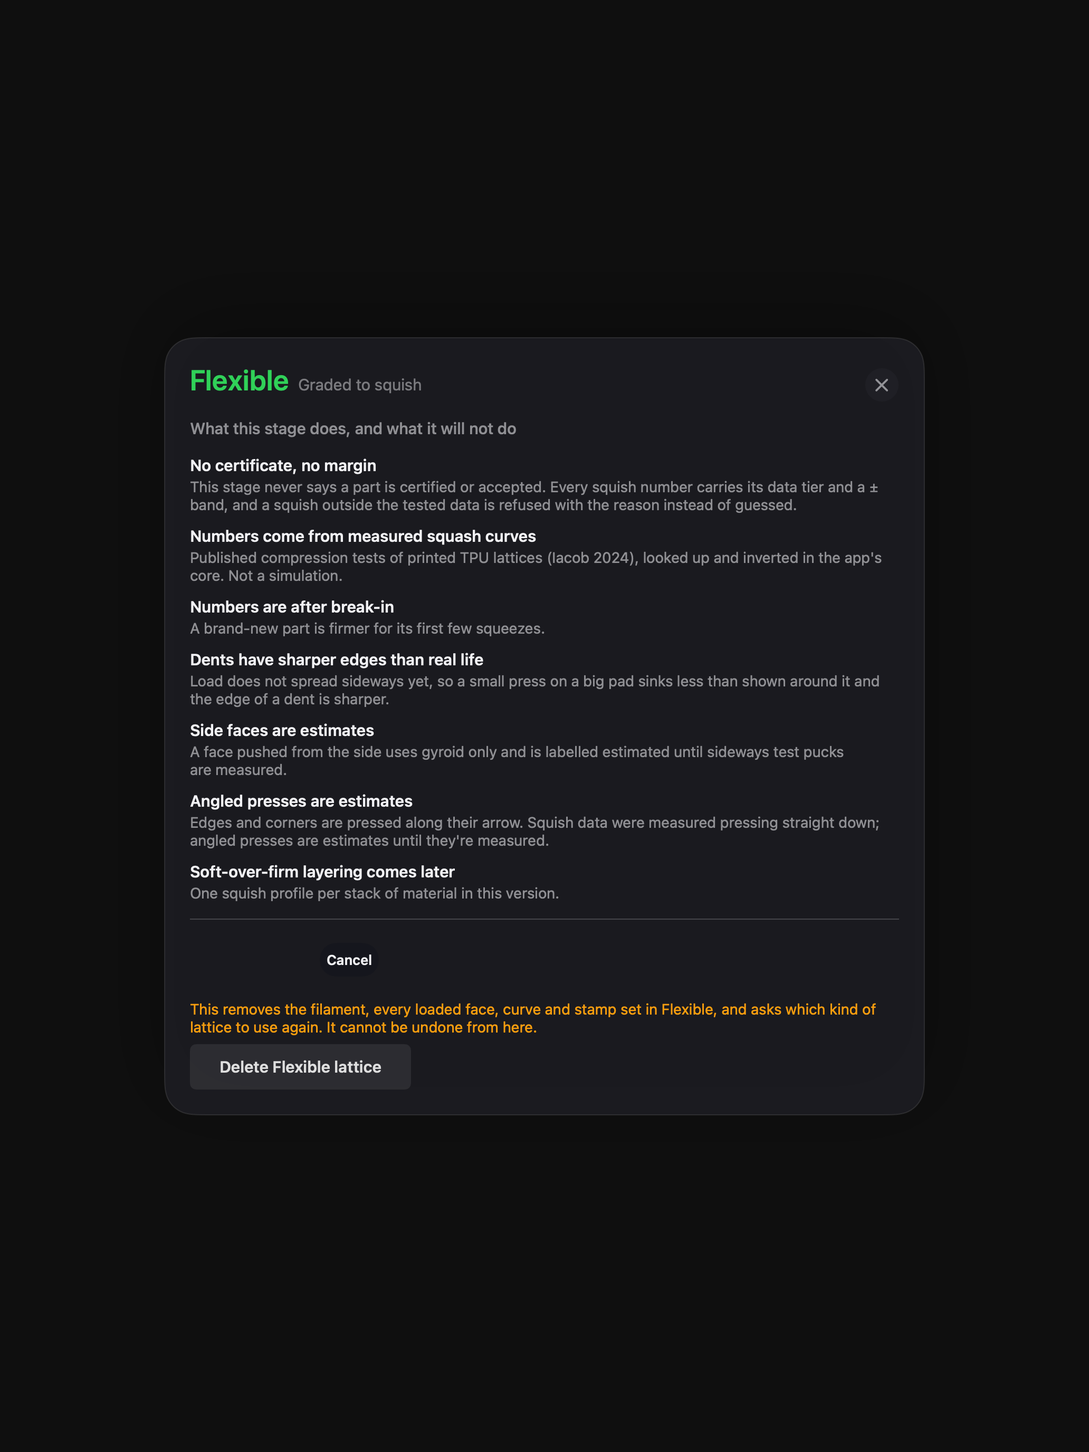
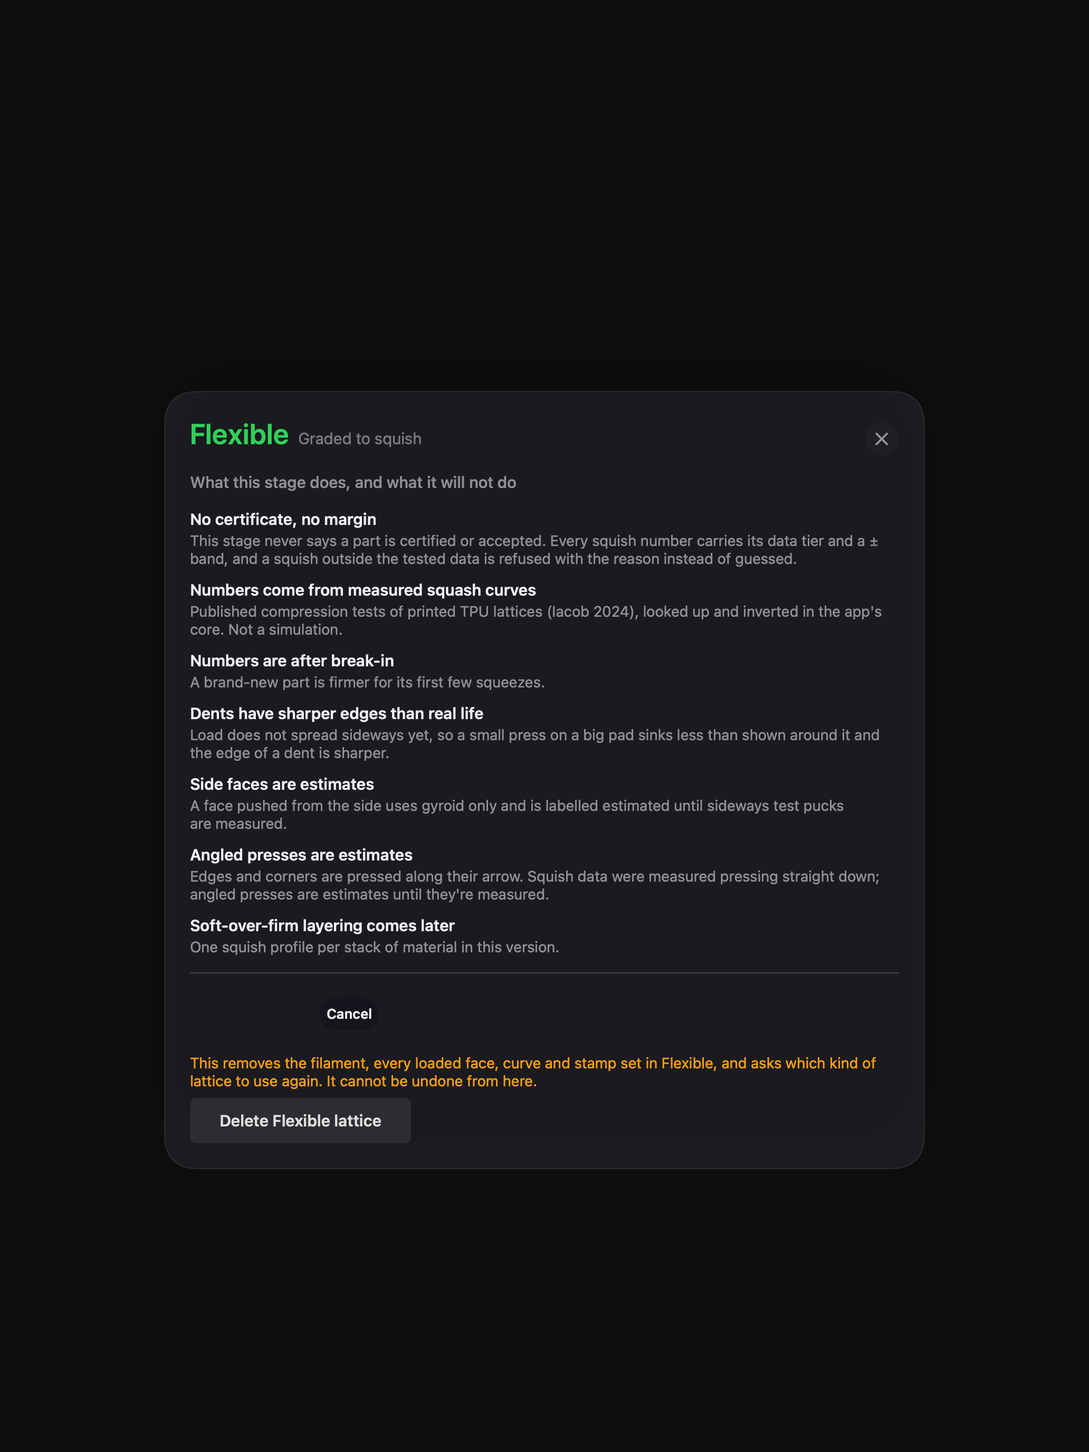
Round 7 · U21 batch D, fix round 2: [Keep] covers the whole button he tapped; the red [Remove] starts at least 24 pt past that button's own edge (his note of 2026-10-21, Img13: "is the "cancel" button where the delete button was and the OK button somewhere else so it requires a move to confirm?").
The check found that the 24 pt gap was measured from a 64 pt [Keep], not from the tapped button. On the 128-143 pt fix buttons the red [Remove] therefore sat 9-16 pt over the button's ends: pop-up [Remove Face 5] 54-194 with the red from 180; card [Remove Edge 12] 40-183 with the red from 167; warning row 40-168 with the red from 159; callout 162-296 with the red to 173. A second tap there deleted with no move.

FlexibleConfirmInPlace now measures the tapped control's width, and [Keep] (its capsule too) is at least that wide. On his pad, 13" portrait: pop-up red 218-293, card 206-282, warning row 191-267, callout 63-138. The icon controls are unchanged, because Keep was already wider than them.

The "Delete Flexible lattice" sheet: the glass shown before the ask is now centred on the page. Before, it sat 50 pt above centre (319-955 in 1376); now it is 370-1006. The sheet stays in place while it asks, so [Cancel] still lands on the button.
[…]

diff --git a/app/TopOptKit/Tests/TopOptFlowsTests/FlexibleU2Tests.swift b/app/TopOptKit/Tests/TopOptFlowsTests/FlexibleU2Tests.swift
@@ -254,7 +254,12 @@ final class FlexibleU2Tests: XCTestCase {
     struct Asked { let control: CGRect; let keep: CGRect?; let confirm: CGRect?
         var keepOnSpot: Bool { keep.map { abs($0.midX - control.midX) <= 1 && abs($0.midY - control.midY) <= 1 } ?? false }
         var clear: Bool { if let k = keep, let c = confirm { return c.maxX <= k.minX - FlexibleConfirmLayout.gap + 0.5 }; return false }
-        var line: String { "control \(control.integral) · keep \(keep.map { "\($0.integral)" } ?? "-") · red \(confirm.map { "\($0.integral)" } ?? "-") · on spot \(keepOnSpot) · ≥24 pt clear \(clear)" }
+        /// ★ U21 fix round 2 (the check): the red button ≥ 24 pt clear of the control he TAPPED (its own frame, not Keep's).
+        var clearOfControl: Bool {
+            guard let c = confirm else { return false }
+            return c.maxX <= control.minX - FlexibleConfirmLayout.gap + 0.5 || c.minX >= control.maxX + FlexibleConfirmLayout.gap - 0.5
+        }
+        var line: String { "control \(control.integral) · keep \(keep.map { "\($0.integral)" } ?? "-") · red \(confirm.map { "\($0.integral)" } ?? "-") · on spot \(keepOnSpot) · ≥24 pt clear \(clear) · ≥24 pt clear of the tapped control \(clearOfControl)" }
     }
 
     /// Click `controlKey`, measure the ask, then click the SAME spot again (a double tap): it only cancels.
@@ -306,6 +311,7 @@ final class FlexibleU2Tests: XCTestCase {
         for (name, a) in [("face ⊖", face), ("group trash", group), ("Reset all", reset), ("edge trash", press)] {
             XCTAssertTrue(a.keepOnSpot, "★ \(name): [Keep] centred on the tapped control ±1 pt (\(a.line))")
             XCTAssertTrue(a.clear, "★ \(name): the red button ≥ 24 pt left of [Keep] (\(a.line))")
+            XCTAssertTrue(a.clearOfControl, "★ \(name): the red button ≥ 24 pt clear of the tapped control (\(a.line))")
             if let k = a.keep { XCTAssertGreaterThanOrEqual(k.height, 44 - 0.5, "\(name): a 44 pt target") }
         }
         // the confirm itself: [Take out] removes Face 5
@@ -341,6 +347,7 @@ final class FlexibleU2Tests: XCTestCase {
             await m.waitForIdle()
             FlexibleStageModel.controlRemoveAtOnce = false
             FlexibleConfirmInPlace.controlRedAlwaysLeading = false
+            FlexibleConfirmInPlace.controlGapFromKeepOnly = false
             FlexibleStageModel.controlTakeOutFullName = false
             FlexibleStageSheet.controlBlankBlock = false
         }
@@ -400,11 +407,19 @@ final class FlexibleU2Tests: XCTestCase {
             let (a, row) = try run(c)
             let red = a.confirm ?? .zero
             let side = c.first ? (red.minX >= (a.keep?.maxX ?? 0) + FlexibleConfirmLayout.gap - 0.5) : a.clear
+            // (the row's own frame hugs its buttons: a first fix's red [Remove] starts inside it and runs past its trailing end
+            // into the card's free width — recorded, not claimed as "inside")
             let inside = red.minX >= row.minX - 0.5
-            lines.append("\(c.name): \(a.line) · row x \(Int(row.minX))…\(Int(row.maxX)) · red \(c.first ? "right" : "left") clear \(side) · inside \(inside)")
+            lines.append("\(c.name): \(a.line) · row x \(Int(row.minX))…\(Int(row.maxX)) · red \(c.first ? "right" : "left") clear \(side) · starts in the row \(inside) · red ends \(Int(red.maxX - row.minX)) pt from the row's start")
             XCTAssertTrue(a.keepOnSpot, "★ \(c.name): [Keep] on the tapped button (\(a.line))")
             XCTAssertTrue(side, "★ \(c.name): the red button ≥ 24 pt from [Keep] (\(a.line))")
-            XCTAssertTrue(inside, "★ \(c.name): the red button inside its row (red \(red.integral), row \(row.integral))")
+            XCTAssertTrue(a.clearOfControl, "★ \(c.name): the red button ≥ 24 pt clear of the button he tapped (\(a.line))")
+            XCTAssertFalse(red.intersects(a.control), "★ \(c.name): the red button off the tapped button (red \(red.integral), button \(a.control.integral))")
+            XCTAssertGreaterThanOrEqual((a.keep ?? .zero).width, a.control.width - 0.5, "★ \(c.name): [Keep] covers the whole button")
+            XCTAssertTrue(inside, "★ \(c.name): the red button starts inside its row (red \(red.integral), row \(row.integral))")
+            // (the narrowest panel these rows sit in: the mini's 336 pt less its 14 pt sides — the red's end must fit it)
+            let narrowest = FlexibleChromeLayout.panelWidth(CGSize(width: 744, height: 1133)) - 2 * DS.Space.ml
+            XCTAssertLessThanOrEqual(red.maxX - row.minX, narrowest, "★ \(c.name): the red button ends within the narrowest panel's \(Int(narrowest)) pt")
         }
         // the confirm itself (the warning row): [Remove] removes Edge 12
         let pc = try XCTUnwrap(h.frames.all["press-" + pf.id])
@@ -418,6 +433,15 @@ final class FlexibleU2Tests: XCTestCase {
         try await FlexibleHisProject.waitFor(60, "★ [Remove]: Edge 12 goes") { m.settings.press(e12.id) == nil }
         XCTAssertNil(m.settings.press(e12.id), "★ [Remove]: Edge 12 goes")
         pump(0.5)
+        // RED CONTROL 0 (fix round 2): [Keep] 64 pt wide, the gap measured from Keep — the red [Remove] over the wide button
+        FlexibleConfirmInPlace.controlGapFromKeepOnly = true
+        for i in [0, 2] {
+            let (ga, _) = try run(cases[i])
+            lines.append("RED gap from Keep only (\(cases[i].name)): \(ga.line)")
+            XCTAssertTrue((ga.confirm ?? .zero).intersects(ga.control), "RED CONTROL: the red [Remove] over the button he tapped (\(ga.line))")
+            XCTAssertFalse(ga.clearOfControl, "RED CONTROL: not 24 pt clear of the tapped button")
+        }
+        FlexibleConfirmInPlace.controlGapFromKeepOnly = false
         // RED CONTROL 1: a first fix's red button on the left leaves its row
         FlexibleConfirmInPlace.controlRedAlwaysLeading = true
         let (ra, rrow) = try run(cases[2])
@@ -482,11 +506,13 @@ final class FlexibleU2Tests: XCTestCase {
         var deleted = 0
         // (the sheet's own window: the page's full-screen size, as the app presents it)
         let h = host(FlexibleStageSheet(onDelete: { deleted += 1 }, onClose: {}).frame(width: Self.p13.width, height: Self.p13.height), size: Self.p13)
-        addTeardownBlock { @MainActor in FlexibleStageSheet.controlBlankBlock = false }
+        addTeardownBlock { @MainActor in FlexibleStageSheet.controlBlankBlock = false; FlexibleStageSheet.controlOffCentre = false }
         pump(1.2)
         let b = try XCTUnwrap(h.frames.all["latticeModeDelete"], "the button")
         let glass = try XCTUnwrap(h.frames.all["stageSheetGlass"], "the glass")
-        var lines = ["button \(b.integral) · glass \(glass.integral) (not asking)"]
+        var lines = ["button \(b.integral) · glass \(glass.integral) (not asking) · window height \(Int(Self.p13.height))"]
+        // ★ U21 fix round 2 (the check: the visible sheet sat above centre, glass 319-955 in 1376): the glass is centred
+        XCTAssertEqual(glass.midY, Self.p13.height / 2, accuracy: 2, "★ the glass shown before the ask is centred on the page (\(glass.integral))")
         XCTAssertLessThanOrEqual(glass.maxY - b.maxY, DS.Space.xl4 + 1, "★ the glass ends under the button (no blank block)")
         XCTAssertGreaterThanOrEqual(glass.maxY - b.maxY, DS.Space.xl4 - 1)
         try shot("U21_D8_13p_delete_sheet_before.png", h, settle: 0.2)
@@ -516,6 +542,14 @@ final class FlexibleU2Tests: XCTestCase {
         lines.append("RED blank block: glass bottom \(Int(rg.maxY - rb.maxY)) pt under the button")
         XCTAssertGreaterThan(rg.maxY - rb.maxY, DS.Space.xl4 + 40, "RED CONTROL: the blank block under the button")
         FlexibleStageSheet.controlBlankBlock = false
+        // RED CONTROL (fix round 2): no centring — the shortened glass above the page's centre
+        FlexibleStageSheet.controlOffCentre = true
+        let h3 = host(FlexibleStageSheet(onDelete: {}, onClose: {}).frame(width: Self.p13.width, height: Self.p13.height), size: Self.p13)
+        pump(1.2)
+        let og = try XCTUnwrap(h3.frames.all["stageSheetGlass"])
+        FlexibleStageSheet.controlOffCentre = false
+        lines.append("RED off centre: glass \(og.integral), its middle \(Int(Self.p13.height / 2 - og.midY)) pt above the page's")
+        XCTAssertLessThan(og.midY, Self.p13.height / 2 - 40, "RED CONTROL: the glass above centre")
         log = lines
         flush("u21_d_sheet_lines.txt")
     }

diff --git a/app/TopOptKit/Sources/TopOptFlows/FlexibleConfirmInPlace.swift b/app/TopOptKit/Sources/TopOptFlows/FlexibleConfirmInPlace.swift
@@ -5,8 +5,9 @@
 // gets the SAME confirm as a group").
 //
 // ★ THE RULE (one for every delete): the tapped control's place turns into [Keep] (or [Cancel]) — its CENTRE exactly where the
-// tapped control's centre was, so a second tap on the same spot only cancels; the question and the red button sit to its LEFT,
-// the red button's trailing edge at least `gap` (24 pt) left of Keep's leading edge, so confirming needs a move. A tap elsewhere
+// tapped control's centre was and (fix round 2) at least as wide as the control, so a second tap anywhere on the same spot only
+// cancels; the question and the red button sit to its LEFT, the red button's trailing edge at least `gap` (24 pt) left of Keep's
+// leading edge — so at least 24 pt clear of the control he tapped — and confirming needs a move. A tap elsewhere
 // (another face, a row, the part) or a tab change drops the ask (`dropInPlaceAsks`). Applied to: the face row's take-out (⊖),
 // an edge / corner press's trash, a group's trash (it asked in the panel's top line before), Reset all, the fix pop-up's
 // [Remove Face N] / a kept-out press's [Remove] (two taps with a move: his words beat the one-tap-fix rule for deletes) — and,
@@ -74,9 +75,25 @@ struct FlexibleConfirmInPlace: ViewModifier {
     @MainActor static var controlOldPlacement = false
     /// ★ RED CONTROL (hosted, U21 fix round 1): the red button always on the left — a first fix's [Remove] leaves its row.
     @MainActor static var controlRedAlwaysLeading = false
+    /// ★ RED CONTROL (hosted, U21 fix round 2): [Keep] always 64 pt wide — on a wide fix button ([Remove Face 5], 128–143 pt)
+    /// the red [Remove] then sits 9–16 pt over the button he tapped (the gap was measured from Keep, not from the button).
+    @MainActor static var controlGapFromKeepOnly = false
+
+    /// The tapped control's own width (measured while it shows).
+    @State private var controlWidth: CGFloat = 0
+
+    /// ★ U21 FIX ROUND 2 (the check: his Img13 "the OK button somewhere else so it requires a move to confirm"): [Keep] covers
+    /// the WHOLE tapped control — never narrower than it — so the red button's ≥ 24 pt gap is measured from the control's own
+    /// edge; a second tap anywhere on the button he tapped only keeps.
+    @MainActor var keepFrameWidth: CGFloat {
+        Self.controlGapFromKeepOnly ? FlexibleConfirmLayout.keepWidth : max(FlexibleConfirmLayout.keepWidth, controlWidth.rounded(.up))
+    }
 
     func body(content: Content) -> some View {
         content
+            .background(GeometryReader { g in Color.clear.preference(key: FlexibleConfirmControlWidthKey.self, value: g.size.width) })
+            .onPreferenceChange(FlexibleConfirmControlWidthKey.self) { controlWidth = $0 }
+            .transformPreference(FlexibleConfirmControlWidthKey.self) { $0 = 0 }   // (never an enclosing ask's)
             .opacity(asking ? 0 : 1)
             .allowsHitTesting(!asking)
             .overlay(alignment: Alignment(horizontal: .flexKeepCentre, vertical: .center)) {
@@ -99,9 +116,9 @@ struct FlexibleConfirmInPlace: ViewModifier {
         let keepButton = Button(action: cancel) {
             Text(keep).font(.system(size: 13, weight: .semibold)).foregroundStyle(DS.Color.textPrimary.color)
                 .lineLimit(1).fixedSize()
-                .frame(width: FlexibleConfirmLayout.keepWidth - 8, height: 32)
+                .frame(width: keepFrameWidth - 8, height: 32)
                 .background(Capsule().fill(DS.Color.chipSolid.color))
-                .frame(width: FlexibleConfirmLayout.keepWidth, height: FlexibleTargets.side(32))
+                .frame(width: keepFrameWidth, height: FlexibleTargets.side(32))
                 .contentShape(Rectangle())
         }
         .buttonStyle(.plain)
@@ -140,6 +157,11 @@ struct FlexibleConfirmInPlace: ViewModifier {
         GeometryReader { g in Color.clear.preference(key: FlexibleKeepOutKey.self, value: [key: g.frame(in: .global)]) }
             .allowsHitTesting(false)
     }
+}
+
+private struct FlexibleConfirmControlWidthKey: PreferenceKey {
+    static let defaultValue: CGFloat = 0
+    static func reduce(value: inout CGFloat, nextValue: () -> CGFloat) { value = max(value, nextValue()) }
 }
 
 /// The Lattice page's variant: [Cancel] takes the tapped control's place (centred on it); the question and [Delete] are drawn by

diff --git a/app/TopOptKit/Sources/TopOptFlows/FlexibleStageChrome.swift b/app/TopOptKit/Sources/TopOptFlows/FlexibleStageChrome.swift
@@ -111,6 +111,7 @@ public struct FlexibleStageSheet: View {
     public let onClose: () -> Void
     @State private var confirming = false
     @State private var askTop: CGFloat = 0
+    @State private var sheetHeight: CGFloat = 0
 
     public init(onDelete: @escaping () -> Void, onClose: @escaping () -> Void) {
         self.onDelete = onDelete
@@ -245,6 +246,12 @@ public struct FlexibleStageSheet: View {
                     .frame(height: Self.glassHeight(confirming: confirming, askTop: askTop))
                     .background(FlexibleConfirmInPlace.publish("stageSheetGlass"))
             }
+            .background(GeometryReader { g in Color.clear.preference(key: FlexibleSheetHeightKey.self, value: g.size.height) })
+            .onPreferenceChange(FlexibleSheetHeightKey.self) { sheetHeight = $0 }
+            // ★ U21 FIX ROUND 2 (the check: "the visible sheet sits above centre"): the glass that shows before the ask is CENTRED
+            // on the page — the whole sheet moves down by half the hidden lines' height, and stays there while it asks (the
+            // button never moves, so [Cancel] still lands on it; the glass then grows downward to the red button)
+            .offset(y: Self.centringOffset(sheetHeight: sheetHeight, askTop: askTop))
         }
         .accessibilityIdentifier("flexible-stage-sheet")
     }
@@ -257,6 +264,19 @@ public struct FlexibleStageSheet: View {
         guard !confirming, !controlBlankBlock, askTop > 0 else { return nil }
         return askTop - DS.Space.l + DS.Space.xl4
     }
+    /// ★ RED CONTROL (hosted, U21 fix round 2): no centring — the shortened glass sits above the page's centre.
+    @MainActor static var controlOffCentre = false
+    /// Half the hidden lines' height (the sheet's laid-out height less the glass shown before the ask).
+    @MainActor static func centringOffset(sheetHeight: CGFloat, askTop: CGFloat) -> CGFloat {
+        guard !controlOffCentre, !controlBlankBlock, sheetHeight > 0,
+              let shown = glassHeight(confirming: false, askTop: askTop) else { return 0 }
+        return max(0, (sheetHeight - shown) / 2).rounded()
+    }
+}
+
+private struct FlexibleSheetHeightKey: PreferenceKey {
+    static let defaultValue: CGFloat = 0
+    static func reduce(value: inout CGFloat, nextValue: () -> CGFloat) { value = max(value, nextValue()) }
 }
 
 private struct FlexibleSheetAskTopKey: PreferenceKey {

diff --git a/docs/handoffs/2026-09-29-flexible-screens.md b/docs/handoffs/2026-09-29-flexible-screens.md
@@ -86,6 +86,41 @@ confirmation button that is required? And if there is, is the "cancel" button wh
 somewhere else so it requires a move to confirm?) Then I hit undo and now it shows the bend on the model but it is not actually
 showing the face in the modal anymore? That's clearly a bug."
 
+### Fix round 2 (the second check: the red [Remove] still overlapped the wide button you tapped)
+- **What you will see now:** when you tap a wide fix button ([Remove Face 5], [Remove Edge 12]), [Keep] now covers the WHOLE
+  button, not a 64 pt chip in its middle, and the red [Remove] starts at least 24 pt past the button's own edge. A second tap
+  anywhere on the button you tapped only keeps; confirming always needs a move (your Img13: "the OK button somewhere else so it
+  requires a move to confirm"). The small icon controls (the face ⊖, the trashes) are unchanged: Keep was already wider than
+  them.
+- **What was wrong:** the 24 pt gap was measured from the 64 pt [Keep], not from the button you tapped, so on a 128–143 pt fix
+  button the red [Remove] sat 9–16 pt over that button's ends (pop-up [Remove Face 5] 54–194, red from 180; card [Remove Edge 12]
+  40–183, red from 167; warning row 40–168, red from 159; callout 162–296, red to 173).
+- **What changed:** `FlexibleConfirmInPlace` measures the tapped control's width and makes [Keep] at least that wide (its capsule
+  too), centred on it. Now (pad, 13" portrait): pop-up button 54–194 → Keep 54–194, red 218–293; card 40–183 → Keep 39–183, red
+  206–282; warning row 40–168 → Keep 39–168, red 191–267; callout (second fix) 162–296 → Keep 161–296, red 63–138.
+- **"Delete Flexible lattice" sheet:** the glass that shows before the ask is now centred on the page (it sat 50 pt above centre:
+  glass 319–955 in 1376; now 370–1006). The sheet moves down by half the hidden lines' height and stays there while it asks, so
+  the button does not move and [Cancel] still lands on it. A tap on the clear strip under the glass closes the sheet, like any
+  tap outside it.
+- **Wording corrected:** a first fix's red [Remove] STARTS inside its row and runs past the row's own (hugging) frame into the
+  card's free width; it ends at most 252 pt from the row's start, inside the narrowest panel's 308 pt (the mini's 336 less its
+  sides). The earlier text said "inside its row".
+- Tests (red controls asserted red inside): `FlexibleU2Tests.testU21FixRowsRemoveAskInPlace` now asserts, for all four rows, the
+  red button ≥ 24 pt clear of the tapped button's own frame, not intersecting it, [Keep] at least the button's width, and the
+  red's end within 308 pt of the row's start; RED `controlGapFromKeepOnly` (Keep 64 pt): the callout's red 98–173 and the
+  pop-up's 180–255 over their buttons. `testU21ConfirmKeepSitsOnTheTappedControl` asserts the same clearance for the ⊖, the
+  group trash, Reset all and Edge 12's trash (all clear). `testU21DeleteLatticeSheetCancelOnTheButton` asserts the glass centred
+  (± 2 pt); RED `controlOffCentre`: 50 pt above.
+- Runs (`round7/batch_u21_d/u21_d_fix2_runs.txt`): the changed tests 15/15 first; then the same 67 classes as fix round 1
+  (they include the pins of `FlexibleConfirmInPlace.swift` and `FlexibleStageChrome.swift`, and FlexibleSquishCopyTests):
+  **440 tests, 1 skipped, 1 failure = the known Play ring** (20 px). No signal. Goldens 38 identical / 0 DIFFERS
+  (deterministic), 32 + 1 PART-SKIP / 0 DIFFERS (unseeded). The 16 stage-job hashes cmp-identical to `stage_job_hashes_x20b.txt`
+  (whole file; `stage_job_hashes_u21d_fix2.txt`). Renders looked at: `look/U21_D6` (the warning row asking: a wide [Keep] on
+  the button, [Remove] past it), `U21_D8` (the sheet centred), `U21_D9` (asking; [Cancel] on the button).
+- **Still open:** the four fix rows are measured in a test layout with your pad's model behind them, not on the real Lattice
+  page, card and edges card with a live refusal or shared-surface warning (your projects show none), so the real-page placement
+  (what sits to the right, clipping) is proven only by the width check above.
+
 ### Fix round 1 (the check of this batch; read with the sections below, which are corrected to match)
 - **The blocker: two one-tap deletes were left.** On the Lattice page the blocker callout and the Lattice card's Core row applied
   [Remove Face N] (offered on every "Face N can't be squished here") and a kept-out press's [Remove Edge N] on one tap; on the
@@ -95,6 +130,7 @@ showing the face in the modal anymore? That's clearly a bug."
   The other fixes ([Face 5 rests], [Shallower]) still apply on one tap.
 - **A first fix's [Remove] no longer leaves its row:** when the Remove button is the row's first (the pop-up's only fix, a
   kept-out press's only fix, the warning row's only fix), the red [Remove] goes to the RIGHT of [Keep], the same ≥ 24 pt move.
+  (Fix round 2: it starts inside the row and runs past the row's hugging frame; [Keep] now covers the whole button.)
 - **Your l-bracket (22.png's state):** the take-out question named the section ("Take Face 6 · lattice out?"); its left end
   came to x 110 pt, exactly where the Group tab ends (110). It now names the face only, "Take Face 6 out?", starting at x 161
   pt inside the face card (`look/U21_D7`).
@@ -126,8 +162,9 @@ showing the face in the modal anymore? That's clearly a bug."
   [Remove] [Keep]"), a group's trash ("Delete Group 1? [Delete] [Keep]", now on the group's own line, not the panel's top line),
   Reset all ("Reset every setting here? [Reset] [Cancel]") and every [Remove Face N] / [Remove Edge 12] fix button, wherever it
   shows: the Squish page's pop-up, the edges card's warning row, and on the Lattice page the blocker callout and the Lattice
-  card's Core row (fix round 1). The fix button turns into [Keep], the red [Remove] appears beside it (to its left; to its right
-  when it is the row's first button, so it never leaves the row): two taps with a move, your words beating the one-tap-fix rule
+  card's Core row (fix round 1). The fix button turns into [Keep] (as wide as the button, fix round 2), the red [Remove] appears
+  at least 24 pt past the button's edge (to its left; to its right when it is the row's first button, so it never starts outside
+  the row): two taps with a move, your words beating the one-tap-fix rule
   for deletes. Tapping the part, another row or another tab drops the question. On your l-bracket the question reads "Take Face 6
   out?" (the face's own name: the section's " · lattice" is left off so the line stays inside the card).
 - **On the Lattice page** the Selections trash and the chip's trash turn into [Cancel] in place; [Delete] and the question go on
@@ -207,7 +244,8 @@ E(2). `FlexibleR7RHostedTests`' red control (F's 32 pt) kept: the confirm reads 
 ### Not done / open
 - F12's hold: an edit you make within that ~0.5–1 s (before the re-opened scene lands) joins the trash's step; an action that
   seals its own step (another delete, Undo) still seals at once.
-- (Fixed in fix round 1: a first fix's [Remove] now goes to the right of [Keep], inside its row.)
+- (Fixed in fix round 1: a first fix's [Remove] now goes to the right of [Keep], starting inside its row. Fix round 2: [Keep]
+  covers the whole tapped button, the red ≥ 24 pt past its edge.)
 - F12's hold re-announces the project's change every 150 ms (at most 5 s) and holds the model's save meanwhile; the clean way
   would be an undo-merge hook in ProjectModel (#354's file; not asked). On the reviewer's list.
 
